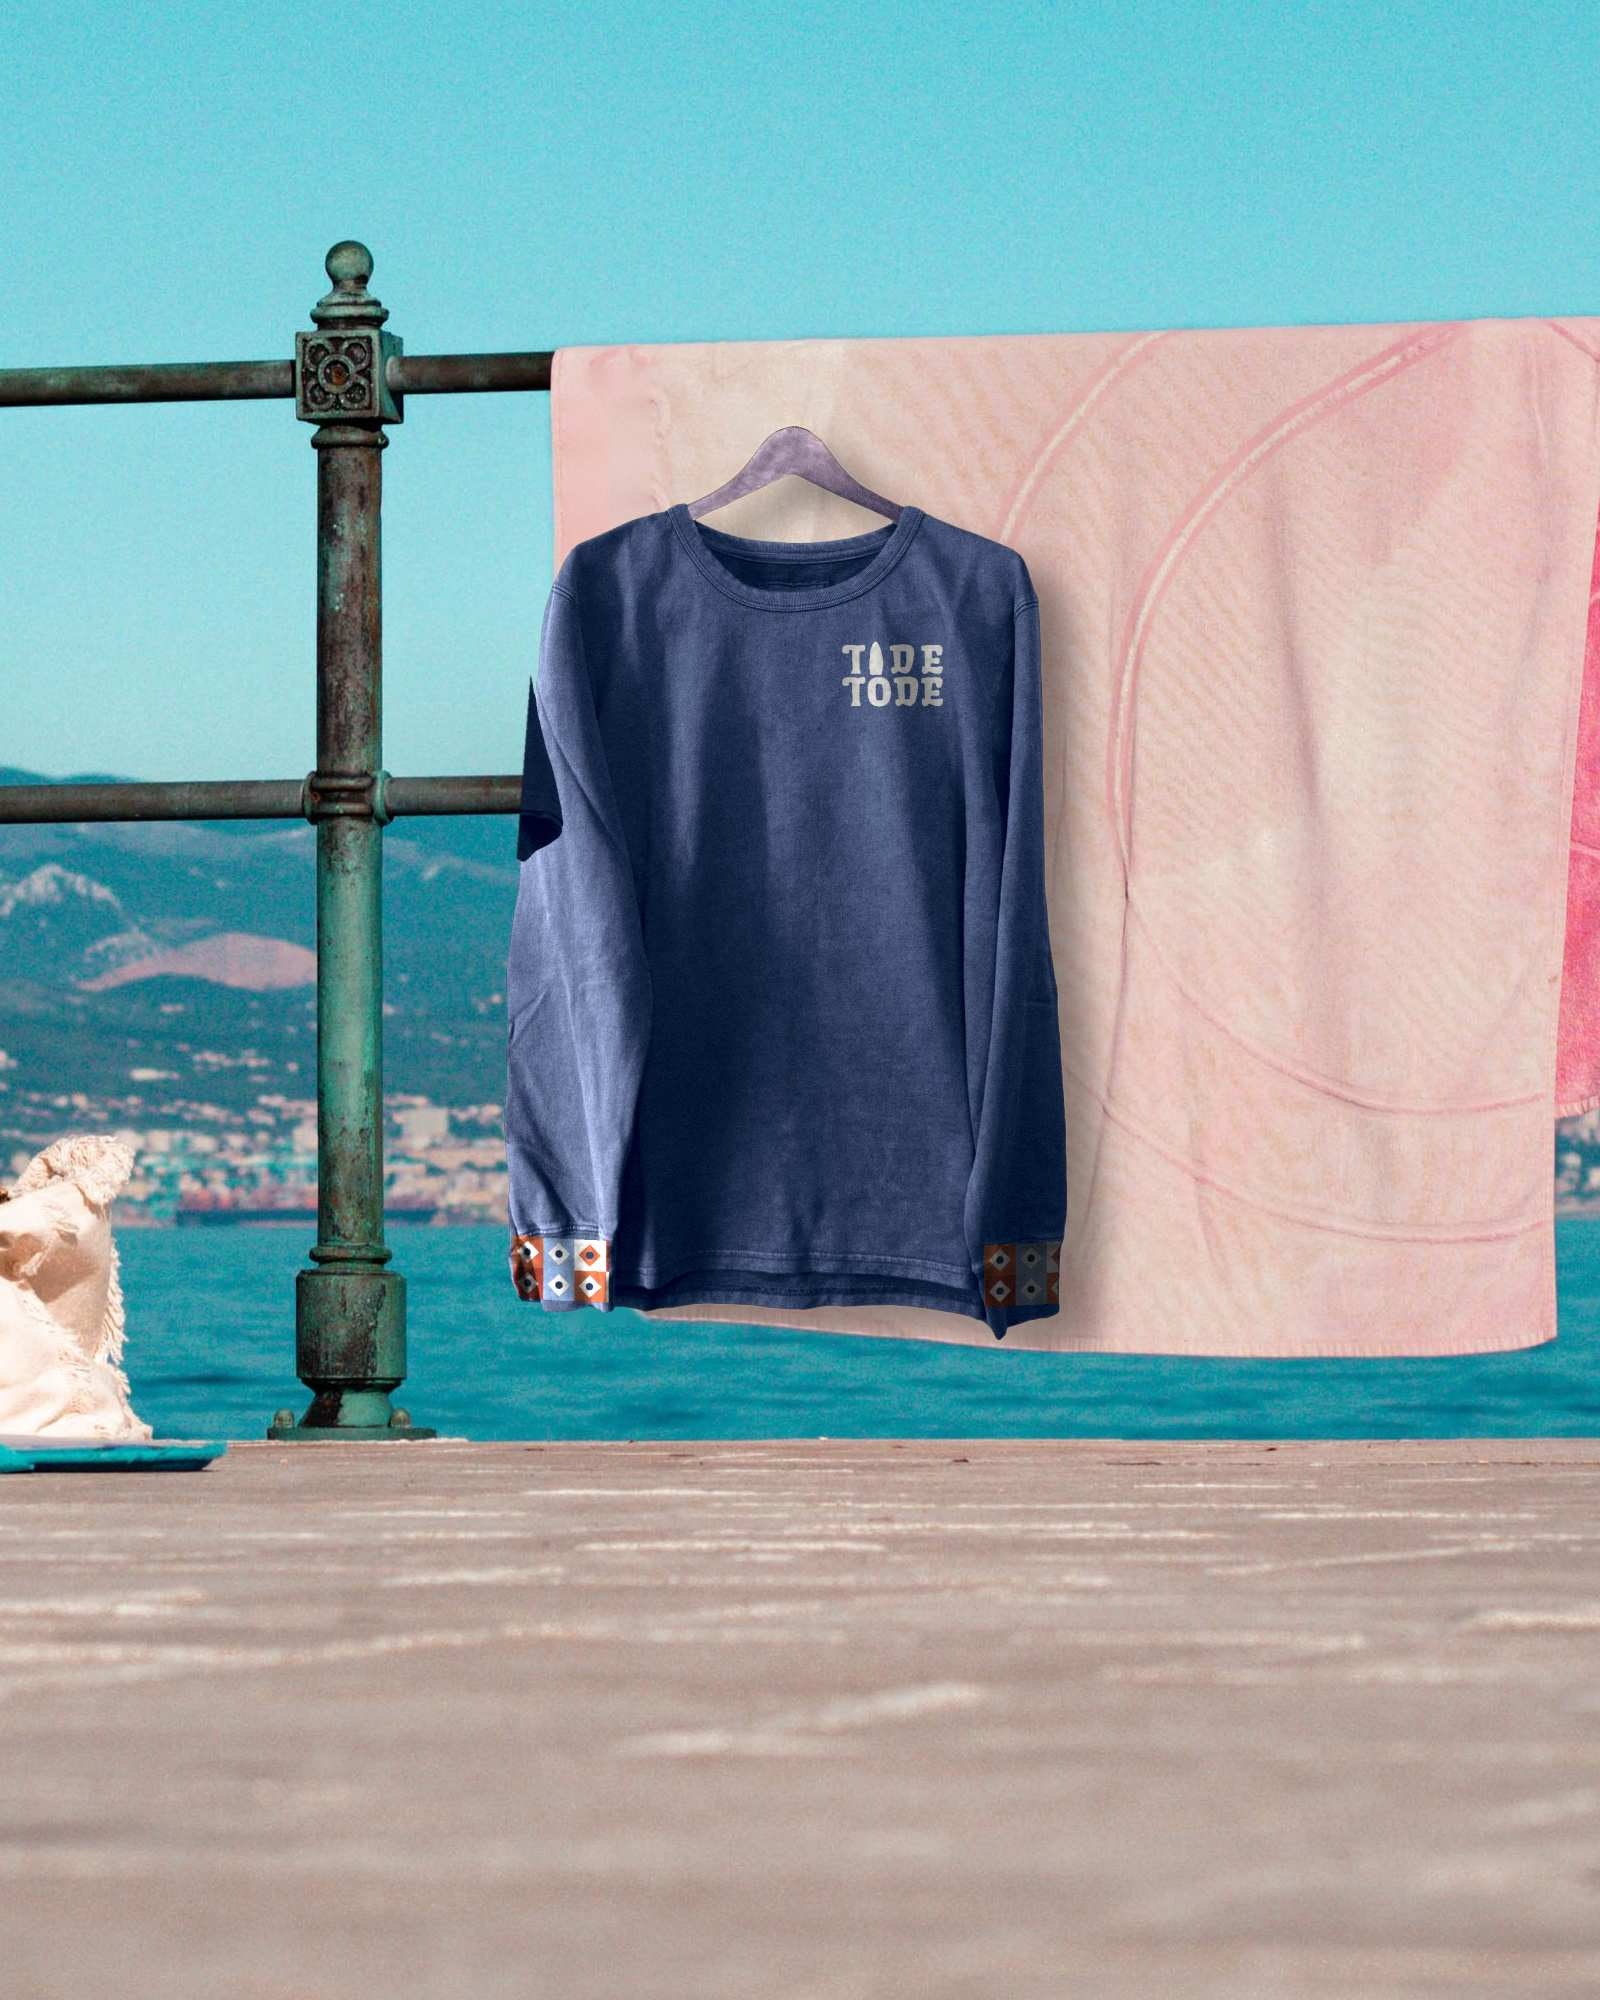
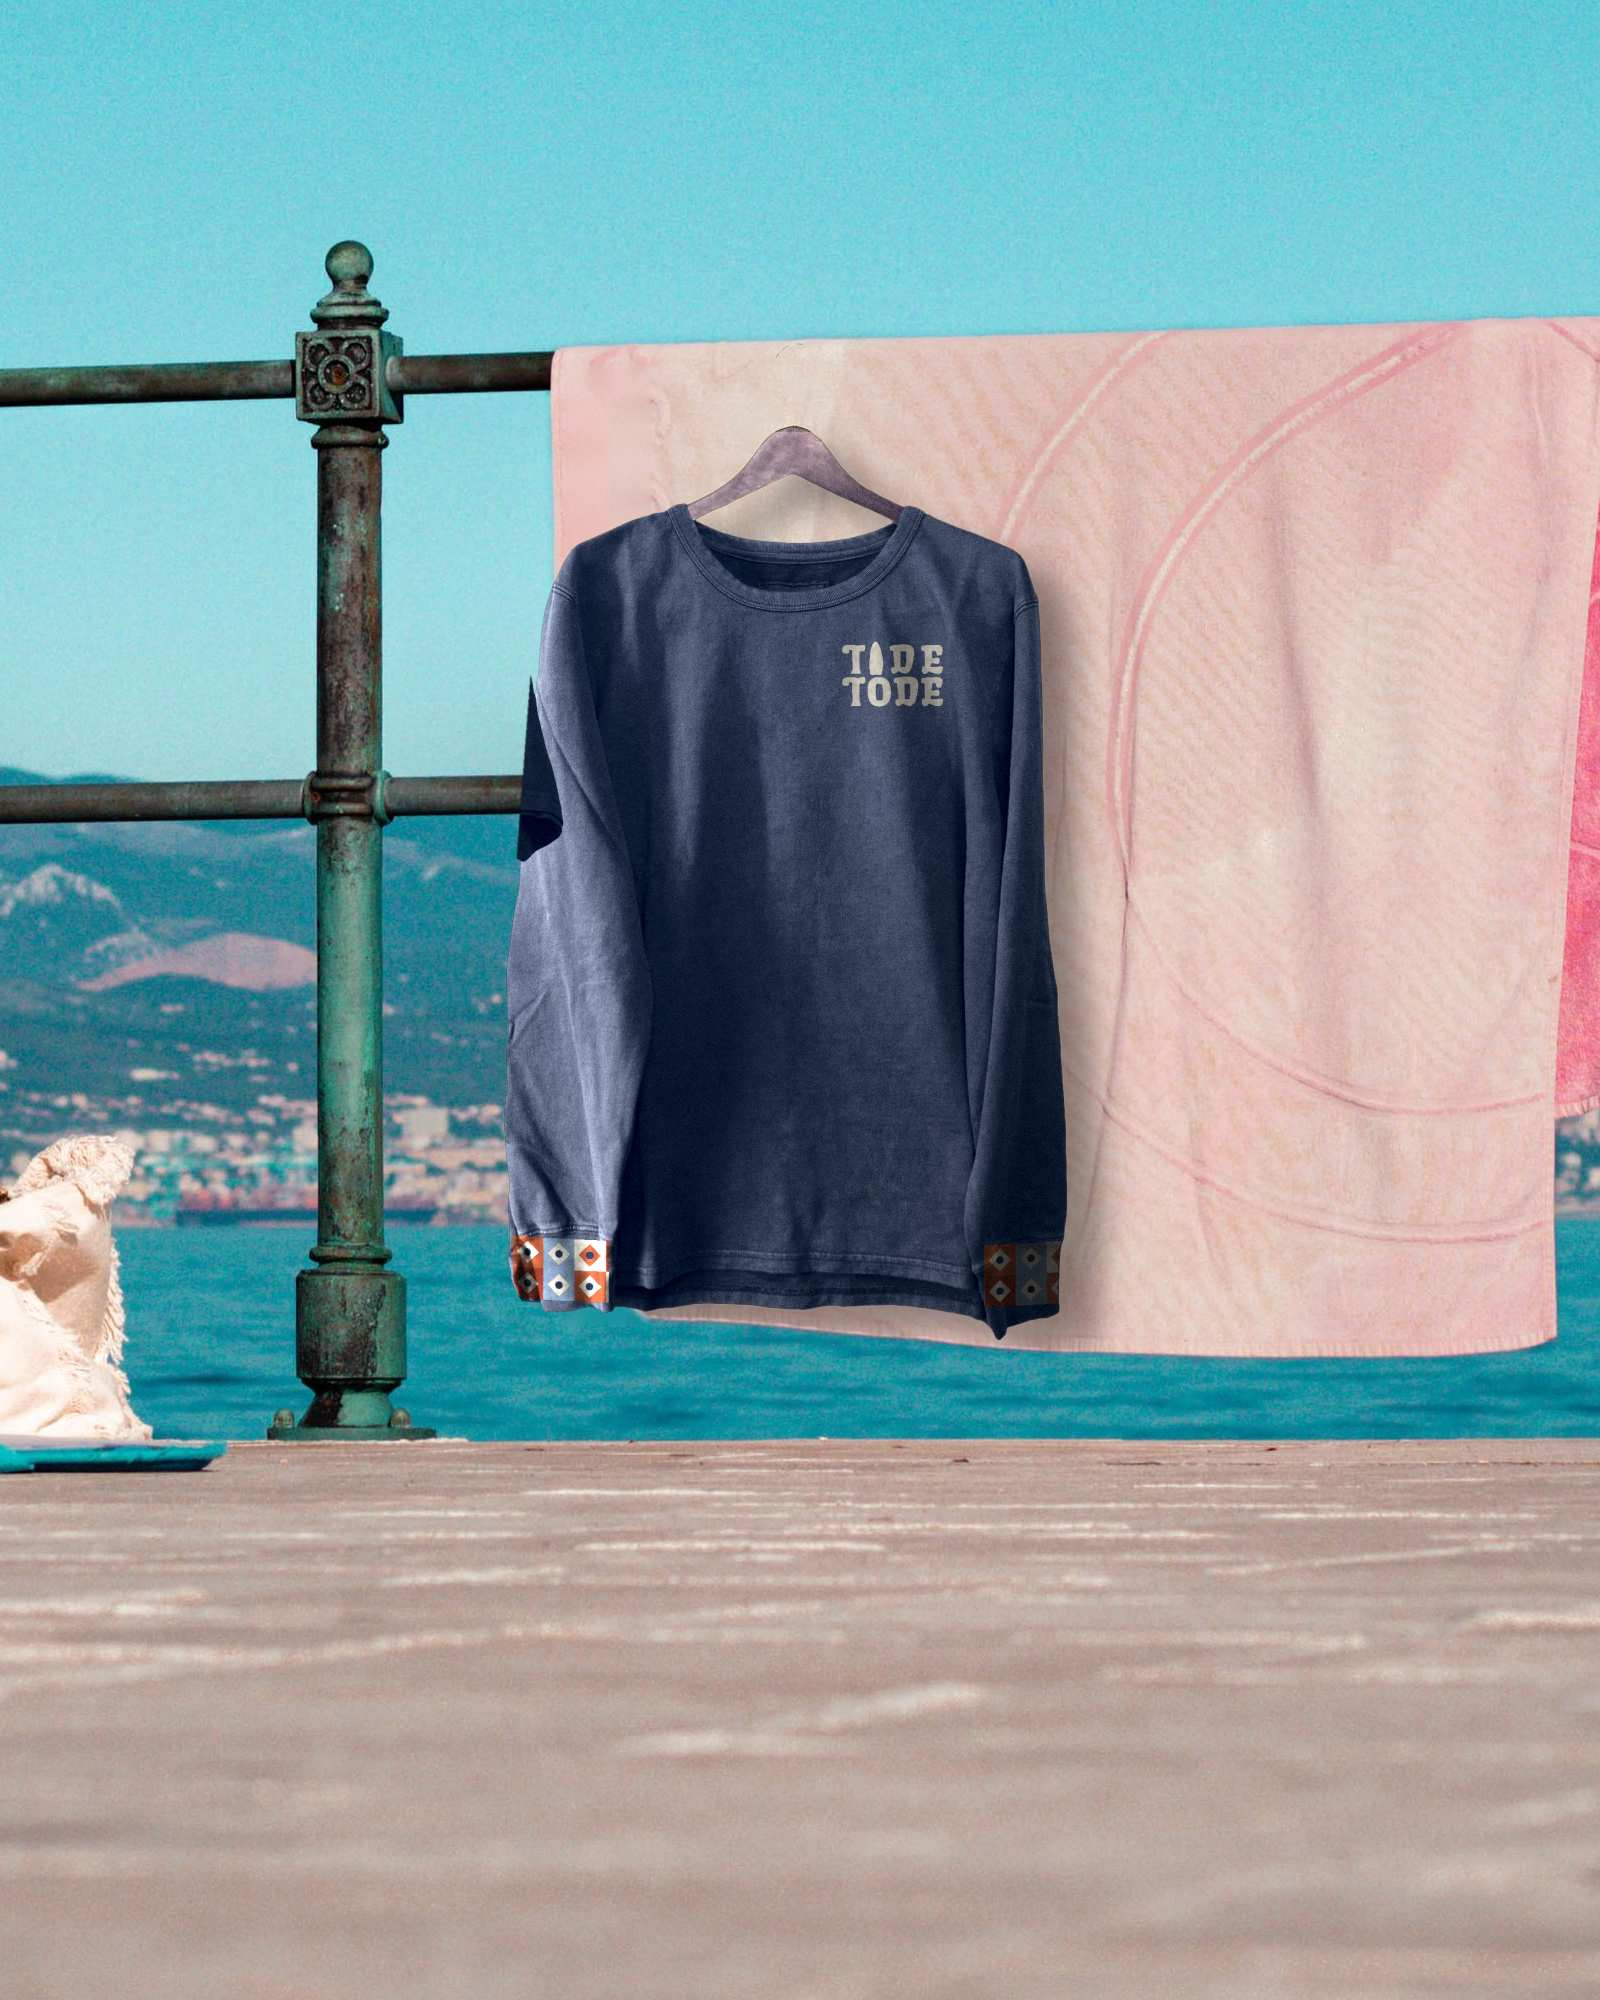
Home in het hoofdmenu (Tide Tode 5)
Claude-Session: https://claude.ai/code/session_015XUCkmjhzv6ohesKJnYCin

Changed region(s): [[0.5312, 0.31, 0.6562, 0.651], [0.4688, 0.62, 0.5, 0.651]]

diff --git a/tools/producten/echt_meer.py b/tools/producten/echt_meer.py
@@ -270,6 +270,56 @@ def hoodie():
     E.bewaar(h, 'hoodie-busje-2', vul=1.0, uitsnede=(965, 70, 2685, 2220))
 
 
+# ---------- karabijnhaak ----------
+KARABIJN = {
+    'messing': dict(donker=[0.42, 0.29, 0.1], licht=[1.0, 0.88, 0.58], gamma=1.15, band='#22324F', garen='#C0603E', tekst='#DCD3C2'),
+    'zwart': dict(donker=[0.05, 0.055, 0.065], licht=[0.62, 0.64, 0.68], gamma=2.2, band='#67809F', garen='#F3ECDD', tekst='#22324F'),
+}
+PX_PER_CM_RENDER = 880 / 7.0          # karabijnhaak van 7 cm is 880 px in de render van echt.karabijn
+
+
+def karabijn_laag(naam):
+    """De karabijnhaak met D-ring en bandlus precies zoals op karabijnhaak-<naam>-1 (zelfde functies uit echt.py),
+    maar als losse laag (RGBA) zonder de tafel en de schaduwen erop: twee keer renderen, op zwart en op wit,
+    en de dekking uit het verschil halen."""
+    p = KARABIJN[naam]
+    k = E.foto('karabiner-zilver-1.jpg')
+    m = E.omkleur_masker(k, 0.15, (800, 589), vullen=False, sluit=81)
+    L = MK.helderheid(k)
+    donker, licht = np.array(p['donker']), np.array(p['licht'])
+    t = np.clip(L, 0, 1) ** p['gamma']
+    metaal = donker[None, None] + (licht - donker)[None, None] * t[..., None]
+    glim = np.clip((L - 0.965) / 0.03, 0, 1)[..., None]
+    spec = licht * 0.25 + 0.75 if naam == 'messing' else np.array([0.9, 0.92, 0.95])
+    metaal = (metaal * (1 - glim) + spec[None, None] * glim).astype(np.float32)
+    cnts, _ = cv2.findContours((m > 0.5).astype(np.uint8), cv2.RETR_EXTERNAL, cv2.CHAIN_APPROX_SIMPLE)
+    romp = np.zeros_like(m); cv2.fillPoly(romp, [cv2.convexHull(np.vstack(cnts))], 1)
+    romp = cv2.erode(romp, np.ones((9, 9), np.uint8))
+    grijs = (L < 0.935) & (cv2.dilate((m > 0.5).astype(np.uint8), np.ones((61, 61), np.uint8)) > 0)
+    glans = cv2.morphologyEx((romp * grijs).astype(np.uint8), cv2.MORPH_CLOSE, np.ones((7, 7), np.uint8)).astype(np.float32)
+    zone = np.maximum(m, cv2.GaussianBlur(glans, (0, 0), 1.2))
+    metaal = E.gegoten_logo(metaal, m, 760, 600, 250, 29.2, sterkte=1.0 if naam == 'messing' else 1.4)
+    L0, B0, B, H = 360, 300, 2600, 3250
+    haak_a = np.zeros((H, B), np.float32); haak_a[B0:B0 + m.shape[0], L0:L0 + m.shape[1]] = zone
+    haak_c = np.zeros((H, B, 3), np.float32); haak_c[B0:B0 + m.shape[0], L0:L0 + m.shape[1]] = metaal
+    hm = np.zeros((H, B), np.float32); hm[B0:B0 + m.shape[0], L0:L0 + m.shape[1]] = np.maximum(m, 0)
+    r = np.array([-0.215, 0.977]); C = np.array([592 + L0, 1068 + B0])
+    Sd = C + r * 150
+    lagen = []
+    for achter in (0.0, 1.0):
+        doek = haak_c * haak_a[..., None] + achter * (1 - haak_a[..., None])
+        doek = E.d_ring(doek, hm, Sd, r, 300, 26, donker, licht)
+        doek = E.bandlabel(doek, tuple(Sd), tuple(r), 1450, 280, p['band'], p['garen'], p['tekst'], buig=0.09, R=13)
+        lagen.append(doek.astype(np.float32))
+    Cz, Cw = lagen
+    A = np.clip(1 - (Cw - Cz).mean(-1), 0, 1)
+    F = Cz / np.maximum(A, 1e-3)[..., None]
+    voorwerp = np.maximum(haak_a, A * (F.max(-1) > 0.015))          # schaduwen (puur zwart) vallen weg
+    voorwerp = np.where(A > 0.02, voorwerp, 0)
+    kleur_v = np.clip(np.where(haak_a[..., None] > 0.5, Cz / np.maximum(A, 1e-3)[..., None], F), 0, 1)
+    return np.dstack([kleur_v, voorwerp]).astype(np.float32)
+
+
 def borduur_op(img, L_bron, ref, a, cx, cy, breedte, draai=0, sterkte=0.8):
     """E.borduur, en daarna het licht van de stof (uit de bronfoto) ook over het borduursel."""
     uit = E.borduur(img, a, cx, cy, breedte, draai)

diff --git a/tools/producten/echt_handdoek.py b/tools/producten/echt_handdoek.py
@@ -65,7 +65,17 @@ def motief(i, n=480):
         acc += [np.fliplr(a) for a in acc]
     X = cv2.GaussianBlur(np.mean(acc, 0), (0, 0), n / 160)
     X = (X - X.mean()) / (X.std() + 1e-6)
-    return np.dstack([X - np.percentile(X, 30), X - np.percentile(X, 58)])
+    uit = []
+    for pct in (30, 58):
+        Y = X - np.percentile(X, pct)
+        # spikkels weg: losse vlekjes kleiner dan ca. 3 mm worden opgevuld met de omringende kleur
+        for teken in (1, -1):
+            m = (teken * Y > 0).astype(np.uint8)
+            n_, lab, st, _ = cv2.connectedComponentsWithStats(m, connectivity=4)
+            klein = np.isin(lab, 1 + np.where(st[1:, cv2.CC_STAT_AREA] < (n / 45) ** 2)[0])
+            Y = np.where(klein, -teken * np.maximum(np.abs(Y), 0.3), Y)
+        uit.append(cv2.GaussianBlur(Y, (0, 0), n / 400))
+    return np.dstack(uit)
 
 
 _MOT = {}
@@ -367,21 +377,23 @@ def foto1():
     rand = np.zeros((h, w), np.float32)
     for naam, g in stapel.items():
         m = cv2.dilate(kleurmasker(f, naam), np.ones((5, 5), np.uint8))
+        m = m * (yy <= interp(g['D'], xx) + 4)          # niet de gekleurde weerschijn op de tafel
         rand = np.maximum(rand, m)
         B = lambda x, p=g['B']: interp(p, x)
         C = lambda x, p=g['C']: interp(p, x)
         D = lambda x, p=g['D']: interp(p, x)
-        s, t = gevouwen_uv(xx, yy, B, C, D, 1200, 45.0, float(D(np.float32(1200)) - C(np.float32(1200))), 22.0, 10.5)
+        s, t = gevouwen_uv(xx, yy, B, C, D, 1200, 36.0, float(D(np.float32(1200)) - C(np.float32(1200))), 22.0, 10.5)
         U = g['u0'] + s
         V = g['v0'] + t
         mz = cv2.GaussianBlur(m, (0, 0), 1.2)
-        uit = breng_aan(uit, mz, U, V, ppc, ontw, schoon=f, verplaatsing=0.25, detail=0.9, mono=True, weef=0.01, waas=0.04,
+        uit = breng_aan(uit, mz, U, V, ppc, ontw, schoon=f, verplaatsing=0.25, detail=0.9, mono=True, weef=0.01, waas=0.04, gamma=0.75,
                         ref=np.full(3, np.percentile(MK.helderheid(f)[m > 0.5], 88), np.float32))
-    # losse rode en turquoise pluisjes langs de randen neutraal maken
+    # losse rode en turquoise pluisjes langs de randen en de gekleurde weerschijn op de tafel neutraal maken
     zone = cv2.dilate(rand, np.ones((25, 25), np.uint8)) > 0
+    zone |= (yy > 900)
     hsv = cv2.cvtColor((np.clip(uit, 0, 1) * 255).astype(np.uint8), cv2.COLOR_RGB2HSV)
     Hh, Ss = hsv[..., 0].astype(int), hsv[..., 1].astype(int)
-    fel = zone & (Ss > 45) & ((Hh < 12) | (Hh > 160) | ((Hh > 75) & (Hh < 105)))
+    fel = zone & (rand < 0.5) & (Ss > 12) & ((Hh < 12) | (Hh > 160) | ((Hh > 75) & (Hh < 105)))
     fel = cv2.GaussianBlur(fel.astype(np.float32), (0, 0), 1.5)[..., None]
     grijs = MK.helderheid(uit)[..., None] * np.array([1.02, 1.0, 0.96], np.float32)
     uit = uit * (1 - fel) + grijs * fel

diff --git a/tools/producten/echt_extra.py b/tools/producten/echt_extra.py
@@ -345,7 +345,7 @@ def uv_shirt():
     gat = (1 - stof).astype(np.uint8)
     n, lab, st, _ = cv2.connectedComponentsWithStats(gat)
     for i in range(1, n):
-        if st[i, cv2.CC_STAT_AREA] < 3000:
+        if st[i, cv2.CC_STAT_AREA] < 3000 and L[lab == i].mean() < 0.5:
             stof[lab == i] = 1
     stof = cv2.erode(stof, np.ones((3, 3), np.uint8))
     haak = np.zeros(L.shape, np.float32)
@@ -355,8 +355,14 @@ def uv_shirt():
     alfa = np.clip(np.maximum(np.maximum(ms, cv2.GaussianBlur(hout.astype(np.float32), (0, 0), 1.0)), haak), 0, 1)
     if PROEF:
         cv2.imwrite(str(UIT / 'proef-uitknip.png'), cv2.cvtColor((np.dstack([h, alfa]) * 255).astype(np.uint8)[150:1960, 1990:3060], cv2.COLOR_RGBA2BGRA))
-    h = kleur_lab(h, ms, NAVY, chroma=0.85, spreiding=0.4)
-    h = np.clip(h * 1.12, 0, 1)
+    h = kleur_lab(h, ms, NAVY, chroma=0.75, spreiding=0.4)
+    # zonlicht van linksboven: links en boven iets lichter, rechtsonder iets donkerder
+    yy, xx = np.mgrid[0:h.shape[0], 0:h.shape[1]].astype(np.float32)
+    zon = 1.22 - 0.22 * np.clip((xx - 2000) / 1000, 0, 1) - 0.12 * np.clip((yy - 400) / 1500, 0, 1)
+    h = np.clip(h * (1 + (zon[..., None] - 1) * ms[..., None]), 0, 1)
+    haak = np.clip(haak * 1.6, 0, 1)
+    h[150:340, 2440:2640] = np.where(haak[150:340, 2440:2640, None] > 0, h[150:340, 2440:2640] * 0.8, h[150:340, 2440:2640])
+    alfa = np.maximum(alfa, haak)
     licht = np.percentile(MK.helderheid(h)[ms > 0.5], 90)
     h = druk(h, plaats(h.shape, borst, 2690, 760, 175), ref=licht, verplaatsing=3, schaduw=0.8, masker=ms, structuur=0.5)
     h = band_zoom(h, [(2028, 1842), (2110, 1848), (2198, 1852)], 108, strook2, masker=ms, ref=licht, verplaatsing=3, schaduw=0.9, structuur=0.6)
@@ -374,7 +380,7 @@ def uv_shirt():
     laag[oy:oy + H, ox:ox + W] = hw
     a = laag[..., 3:4]
     # zon: iets lichter en een tikje koeler, korrel als de foto
-    kleur = laag[..., :3] * np.array([0.98, 1.0, 1.04], np.float32) * 1.06
+    kleur = laag[..., :3] * 1.04
     kleur += np.random.default_rng(4).normal(0, 0.012, kleur.shape[:2]).astype(np.float32)[..., None]
     # schaduw van shirt en hanger op het laken (een paar cm erachter)
     laken = masker_kleur(r, (160, 15, 150), (180, 120, 255), rect=(2500, 1400, 3700, 2460))
